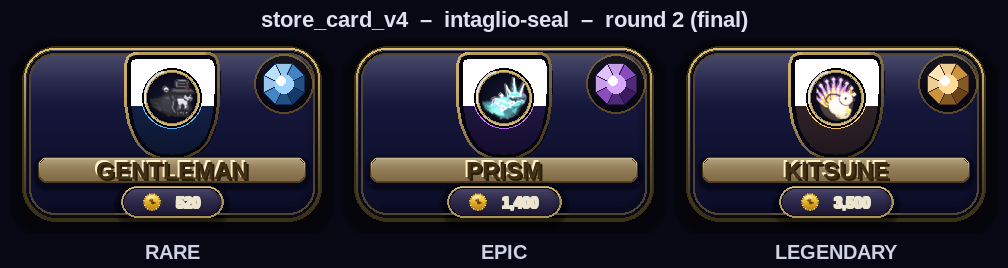
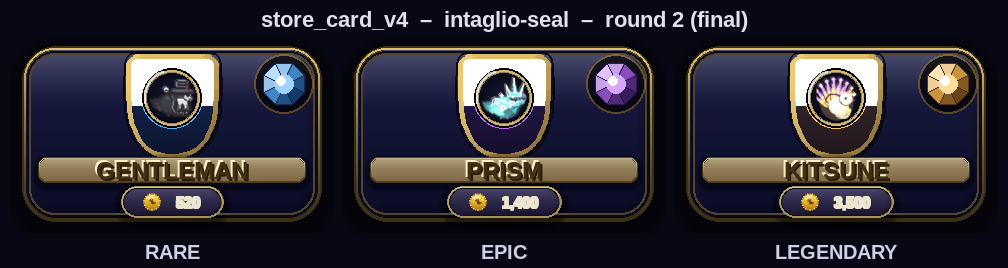
docs: store_card_v4 showcase.png + intaglio-seal r2 update
Claude-Session: https://claude.ai/code/session_011726ot8uBSmurQVaEkGY6K

Changed region(s): [[0.123, 0.1791, 0.246, 0.597], [0.7688, 0.1791, 0.8919, 0.597], [0.4306, 0.1791, 0.5536, 0.597]]

diff --git a/tools/_store_card_v4_intaglio_seal_r2.py b/tools/_store_card_v4_intaglio_seal_r2.py
@@ -84,8 +84,8 @@ CANVAS_H = TITLE_H + PANEL_H + LABEL_H
 LX, LY = -0.7071, -0.7071
 # Bevel range: golden crest highlight -> a shadow-gold that still holds L>=80 so
 # the border never dissolves into the body (P2 + P3 reconciled).
-BEVEL_BRIGHT = CARD_RING_BRIGHT              # (236,202,116)
-BEVEL_SHADOW = (122, 98, 48)                 # luma ~97 — reads as a lit edge
+BEVEL_BRIGHT = CARD_RING_BRIGHT              # (236,202,116) luma ~203
+BEVEL_SHADOW = (150, 120, 58)                # luma ~122 — dimmer, still an edge
 
 
 def _quad(p0, p1, p2, steps):
@@ -209,23 +209,25 @@ def _draw_shield(big, sid, rect, pal):
     grad.blit(sheen, (0, 0), special_flags=pygame.BLEND_RGBA_ADD)
     big.blit(grad, (int(bx0), int(by0)))
 
-    # P2b — dark keyline all the way round (a closed contact edge), then
-    # P3 — a single top-left-lit gold bevel just inside it. Per-edge shade eases
-    # bright(top-left) -> shadow-gold(bottom-right); no alpha above 220.
-    pygame.draw.polygon(big, (4, 5, 16), [(int(x), int(y)) for x, y in outline],
-                        width=max(1, m(2)))
-    inset = [(x + sc_unit(x, y, ctr)[0] * m(1.4),
-              y + sc_unit(x, y, ctr)[1] * m(1.4)) for (x, y) in outline]
-    n = len(inset)
+    # P2b + P3 — the BORDER is an OPAQUE gold bevel drawn ON the outline, so the
+    # silhouette holds a bright edge all the way round (incl. lower-left). Per-edge
+    # shade eases from a bright top-left to a still-legible shadow-gold bottom-right
+    # off the ONE top-left light; the dimmest edge is luma ~122, never dissolving
+    # into the body. A thin dark keyline is then dropped just INSIDE the bevel as
+    # the pressed/incised groove that reads as a struck seal, not a coin ring.
+    obg = [(int(round(x)), int(round(y))) for x, y in outline]
+    n = len(obg)
     for i in range(n):
-        x1, y1 = inset[i]
-        x2, y2 = inset[(i + 1) % n]
+        x1, y1 = obg[i]
+        x2, y2 = obg[(i + 1) % n]
         mx, my = (x1 + x2) / 2, (y1 + y2) / 2
-        ox, oy = sc_unit(mx, my, ctr)
-        f = max(0.0, min(1.0, (ox * LX + oy * LY + 1) / 2))   # 0 shadow .. 1 lit
+        ux, uy = sc_unit(mx, my, ctr)
+        f = max(0.0, min(1.0, (ux * LX + uy * LY + 1) / 2))   # 0 shadow .. 1 lit
         col = lerp_color(BEVEL_SHADOW, BEVEL_BRIGHT, f)
-        a = int(150 + 70 * f)                                  # 150..220 (capped)
-        pygame.draw.line(big, (*col, a), (x1, y1), (x2, y2), max(1, m(1.7)))
+        pygame.draw.line(big, col, (x1, y1), (x2, y2), max(1, m(2.4)))
+    groove = [(int(round(x + sc_unit(x, y, ctr)[0] * m(2.6))),
+               int(round(y + sc_unit(x, y, ctr)[1] * m(2.6)))) for (x, y) in outline]
+    pygame.draw.polygon(big, (10, 9, 22, 210), groove, width=max(1, m(1)))
 
     return cx, sy, sw, sh
 

diff --git a/tools/_store_card_v4_showcase.py b/tools/_store_card_v4_showcase.py
@@ -1,0 +1,74 @@
+"""Stitch docs/store_card_v4/showcase.png from original + 5 concept r2 renders.
+
+Each source is a 3-panel (RARE/EPIC/LEGENDARY) strip at SS=2. We crop the
+EPIC panel (middle, x=342, y=10, 324x200) from each and arrange 6 panels with
+labels into a single comparison figure.
+"""
+import os, sys
+os.environ.setdefault("SDL_VIDEODRIVER", "dummy")
+os.environ.setdefault("SDL_AUDIODRIVER", "dummy")
+sys.path.insert(0, os.path.join(os.path.dirname(__file__), ".."))
+
+import pygame
+pygame.init()
+pygame.display.set_mode((1, 1), pygame.NOFRAME)
+
+from game.store_cards import font
+
+BASE = os.path.join(os.path.dirname(__file__), "..", "docs", "store_card_v4")
+
+PANELS = [
+    ("CURRENT",          os.path.join(BASE, "original.png")),
+    ("portrait-vignette",os.path.join(BASE, "portrait-vignette", "round_2.png")),
+    ("landscape-hero",   os.path.join(BASE, "landscape-hero",    "round_2.png")),
+    ("full-bleed-disc",  os.path.join(BASE, "full-bleed-disc",   "round_2.png")),
+    ("intaglio-seal",    os.path.join(BASE, "intaglio-seal",     "round_2.png")),
+    ("corner-anchor",    os.path.join(BASE, "corner-anchor",     "round_2.png")),
+]
+
+# EPIC panel coordinates inside each strip (SS=2 geometry, MARGIN=10, GAP=8, BIG_W=324)
+EPIC_X = 10 + (324 + 8)  # = 342
+EPIC_Y = 10
+PANEL_W = 324
+PANEL_H = 200
+
+BG       = (8,  8,  20)
+GAP      = 8
+MARGIN   = 20
+HEADER_H = 40
+FOOTER_H = 32
+
+n = len(PANELS)
+canvas_w = MARGIN * 2 + PANEL_W * n + GAP * (n - 1)
+canvas_h = HEADER_H + PANEL_H + FOOTER_H + MARGIN
+
+canvas = pygame.Surface((canvas_w, canvas_h))
+canvas.fill(BG)
+
+# Header
+hdr_font = font(10)
+hdr = hdr_font.render("Store Card v4 — Concept Exploration", True, (200, 200, 220))
+canvas.blit(hdr, ((canvas_w - hdr.get_width()) // 2, (HEADER_H - hdr.get_height()) // 2))
+
+lbl_font  = font(7)
+tiny_font = font(5.5)
+
+for i, (label, path) in enumerate(PANELS):
+    x = MARGIN + i * (PANEL_W + GAP)
+    y = HEADER_H
+
+    src = pygame.image.load(path)
+    crop = pygame.Rect(EPIC_X, EPIC_Y, PANEL_W, PANEL_H)
+    panel = src.subsurface(crop).copy()
+    canvas.blit(panel, (x, y))
+
+    # Footer label
+    lbl_surf = lbl_font.render(label, True, (180, 180, 200))
+    if lbl_surf.get_width() > PANEL_W:
+        lbl_surf = tiny_font.render(label, True, (180, 180, 200))
+    canvas.blit(lbl_surf, (x + (PANEL_W - lbl_surf.get_width()) // 2,
+                            y + PANEL_H + (FOOTER_H - lbl_surf.get_height()) // 2))
+
+out_path = os.path.join(BASE, "showcase.png")
+pygame.image.save(canvas, out_path)
+print(f"Saved: {out_path}  ({canvas_w}x{canvas_h})")
